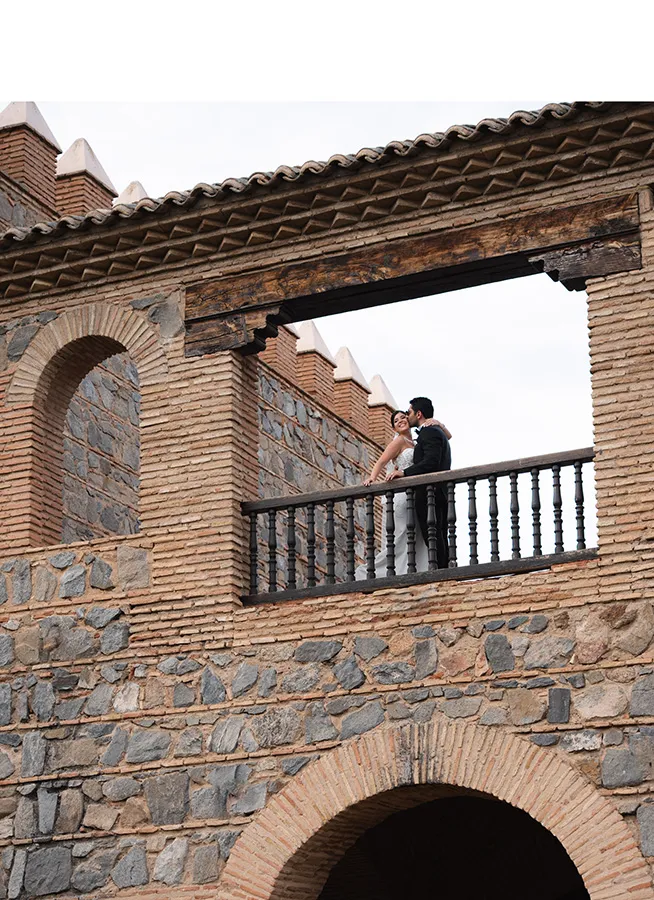
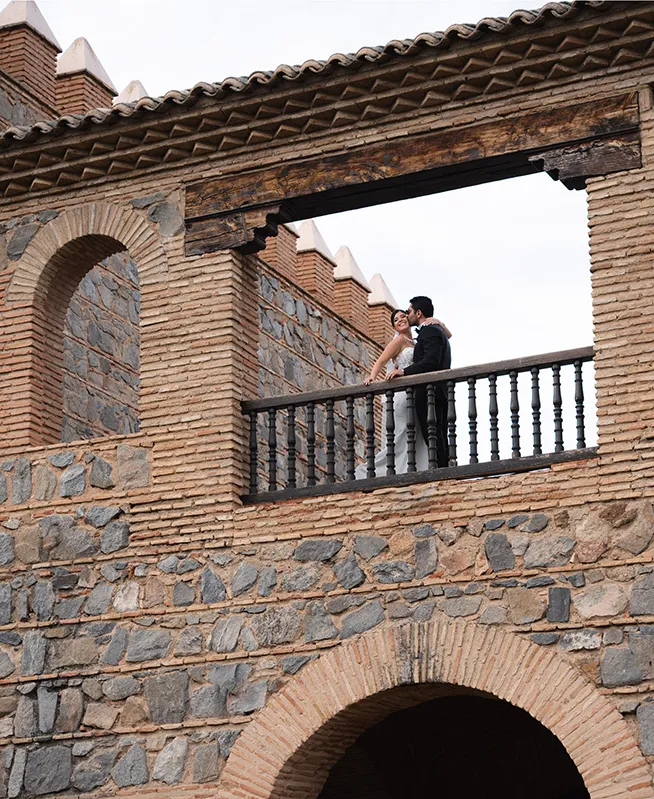
Fix the missing Carlos y Laura photo and the white bands on three thumbnails
- main.js: the ninth Carlos y Laura photo pointed at 'photos/Laura_02.jpg '
  (trailing space, old JPG path) and 404'd on the live site; it now uses
  the existing photos/web/Laura_02.webp.
- Three homepage thumbnails (Silvia y Alejandro, Rosa y Jesús, Joelle y
  Sina) had a flat white band baked into the top of the export, which
  showed as a misaligned strip in the grid. Regenerated with the band
  trimmed; originals untouched.
- tools/optimize-images.js: since the WebP migration the pages reference
  .webp paths, so the script found nothing to convert. It now maps
  photos/web/... .webp references back to the originals under photos/,
  and trims flat white edges from homepage thumbnails.

diff --git a/tools/optimize-images.js b/tools/optimize-images.js
@@ -6,28 +6,43 @@
 // One-time setup (needs Node.js):   cd tools && npm install sharp
 // Run after adding new photos:       node tools/optimize-images.js
 //
-// It only converts files that are referenced by main.js / index.html and that
-// do not have an up-to-date .webp yet, so re-running it is cheap.
+// It reads main.js / index.html, and for every referenced photo (either the final
+// photos/web/... .webp path or a legacy photos/... .jpg path) it looks for the
+// original under photos/ and converts it when the .webp copy is missing or older
+// than the original. Re-running it is cheap.
 const fs = require('fs'); const path = require('path');
 const sharp = require(path.join(__dirname, 'node_modules', 'sharp'));
 const repo = path.join(__dirname, '..');
 const read = f => fs.readFileSync(path.join(repo, f), 'utf8');
 const noComments = s => s.replace(/\/\*[\s\S]*?\*\//g, '').replace(/<!--[\s\S]*?-->/g, '');
-const gallery = [...new Set([...noComments(read('main.js')).matchAll(/src:\s*'(photos\/[^']+\.(?:jpe?g|JPG))'/g)].map(m => m[1]))];
-const thumbs = [...new Set([...noComments(read('index.html')).matchAll(/(?:src|data-src)="(photos\/[^"]+\.(?:jpe?g|JPG))"/g)].map(m => m[1]))];
-function dst(rel, sub) { const inner = rel.slice('photos/'.length).replace(/\.[^.]+$/, ''); return path.join(repo, 'photos', sub, inner + '.webp'); }
-async function convert(rel, sub, maxEdge) {
-  const src = path.join(repo, rel), out = dst(rel, sub);
-  if (!fs.existsSync(src)) return 'missing';
+const EXTS = ['.jpg', '.jpeg', '.JPG', '.JPEG', '.png', '.PNG'];
+// "photos/web/thumbs/X.webp" -> "X", "photos/web/X.webp" -> "X", "photos/X.jpg" -> "X"
+function inner(ref, sub) {
+  const webPrefix = 'photos/' + sub + '/';
+  if (ref.startsWith(webPrefix) && ref.endsWith('.webp')) return ref.slice(webPrefix.length, -'.webp'.length);
+  if (ref.startsWith('photos/') && !ref.startsWith('photos/web/')) return ref.slice('photos/'.length).replace(/\.[^.]+$/, '');
+  return null;
+}
+const refs = (text, re) => [...new Set([...noComments(text).matchAll(re)].map(m => m[1]))];
+const gallery = refs(read('main.js'), /src:\s*'(photos\/[^']+\.(?:jpe?g|JPG|JPEG|png|PNG|webp))'/g).map(r => inner(r, 'web')).filter(Boolean);
+const thumbs = refs(read('index.html'), /(?:src|data-src)="(photos\/[^"]+\.(?:jpe?g|JPG|JPEG|png|PNG|webp))"/g).map(r => inner(r, 'web/thumbs')).filter(Boolean);
+function findOriginal(name) { for (const e of EXTS) { const p = path.join(repo, 'photos', name + e); if (fs.existsSync(p)) return p; } return null; }
+async function convert(name, sub, maxEdge) {
+  const src = findOriginal(name), out = path.join(repo, 'photos', sub, name + '.webp');
+  if (!src) return fs.existsSync(out) ? 'skip' : 'missing';
   if (fs.existsSync(out) && fs.statSync(out).mtimeMs >= fs.statSync(src).mtimeMs) return 'skip';
   fs.mkdirSync(path.dirname(out), { recursive: true });
-  await sharp(src, { failOn: 'none' }).rotate().resize({ width: maxEdge, height: maxEdge, fit: 'inside', withoutEnlargement: true }).webp({ quality: 80, effort: 4 }).toFile(out);
+  let img = sharp(src, { failOn: 'none' }).rotate();
+  // Homepage thumbnails: some exports carry a flat white band along an edge; trim it so the grid crops cleanly.
+  if (sub === 'web/thumbs') img = img.trim({ background: '#ffffff', threshold: 12 });
+  await img.resize({ width: maxEdge, height: maxEdge, fit: 'inside', withoutEnlargement: true }).webp({ quality: 80, effort: 4 }).toFile(out);
+  console.log('converted', path.relative(repo, out));
   return 'ok';
 }
 (async () => {
-  const jobs = [...gallery.map(r => [r, 'web', 2000]), ...thumbs.map(r => [r, 'web/thumbs', 1200])];
+  const jobs = [...gallery.map(n => [n, 'web', 2000]), ...thumbs.map(n => [n, 'web/thumbs', 1200])];
   const stats = { ok: 0, skip: 0, missing: 0 }; let i = 0;
-  await Promise.all(Array.from({ length: 8 }, async () => { while (i < jobs.length) { const [r, sub, max] = jobs[i++]; stats[await convert(r, sub, max)]++; } }));
-  console.log(`converted ${stats.ok}, already up to date ${stats.skip}, source file missing ${stats.missing}`);
+  await Promise.all(Array.from({ length: 8 }, async () => { while (i < jobs.length) { const [n, sub, max] = jobs[i++]; stats[await convert(n, sub, max)]++; } }));
+  console.log(`converted ${stats.ok}, already up to date ${stats.skip}, no original and no copy ${stats.missing}`);
   console.log('Remember: main.js should reference photos/web/... .webp and index.html photos/web/thumbs/... .webp');
 })().catch(e => { console.error(e); process.exit(1); });

diff --git a/main.js b/main.js
@@ -2508,7 +2508,7 @@ document.addEventListener('DOMContentLoaded', function() {
 				{ src: 'photos/web/A7401572.webp', alt: '' },
 			    { src: 'photos/web/A7401621-Enhanced-NR_02.webp', alt: '' },
 				{ src: 'photos/web/Laura_03.webp', alt: '' },
-                { src: 'photos/Laura_02.jpg ', alt: '' },
+                { src: 'photos/web/Laura_02.webp', alt: '' },
                 { src: 'photos/web/A7401528.webp', alt: '' },
 				{ src: 'photos/web/A7401684-Enhanced-NR.webp', alt: '' },
 				{ src: 'photos/web/A7401672-Enhanced-NR.webp', alt: '' }
@@ -2718,7 +2718,7 @@ document.addEventListener('DOMContentLoaded', function() {
         { src: 'photos/web/A7401578.webp', alt: '' },
         { src: 'photos/web/A7401572.webp', alt: '' },
         { src: 'photos/web/Laura_03.webp', alt: '' },
-        { src: 'photos/Laura_02.jpg ', alt: '' },
+        { src: 'photos/web/Laura_02.webp', alt: '' },
         { src: 'photos/web/A7401528.webp', alt: '' },
         { src: 'photos/web/A7401684-Enhanced-NR.webp', alt: '' },
         { src: 'photos/web/A7401672-Enhanced-NR.webp', alt: '' }
